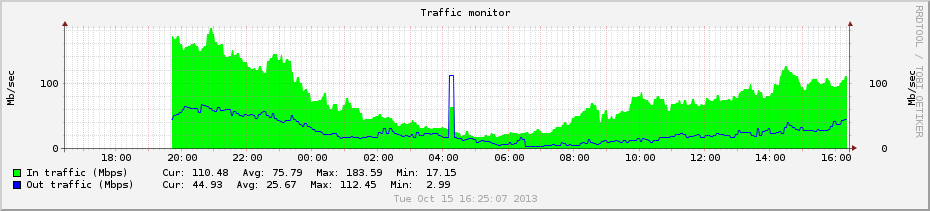
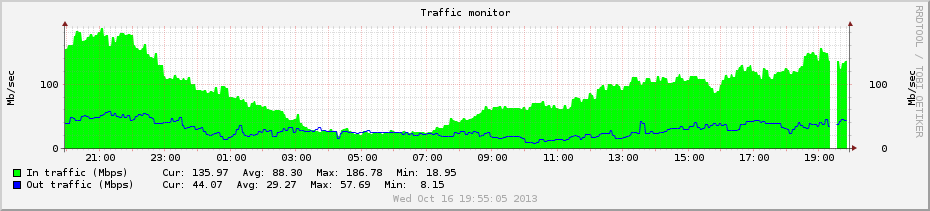
Changed x-grid on image

diff --git a/templates/mon/home.html b/templates/mon/home.html
@@ -19,5 +19,5 @@
 <img src="{{ STATIC_URL}}img/switches/rrd_ping.png" class="img-polaroid">
 <p></p>
 <p>{% trans "Общий трафик по всем интерфейсам:" %}</p>
-<img src="{{ STATIC_URL }}img/switches/rrd_traf.png" class="img-polaroid">
+<img src="{{ STATIC_URL }}img/switches/rrd_traf_daily.png" class="img-polaroid">
 {% endblock full_page_bottom %}

diff --git a/helper_progs/rrd_traffic.py b/helper_progs/rrd_traffic.py
@@ -70,7 +70,7 @@ def graph(period):
     settings = {'d': {'filename': secure.RRDTRAF_D_GRAPH_NAME,
                       'x-grid': 'MINUTE:10:HOUR:1:MINUTE:120:0:%R'},
                 'w': {'filename': secure.RRDTRAF_W_GRAPH_NAME,
-                      'x-grid': 'MINUTE:120:HOUR:6:MINUTE:1440:0:%R'},
+                      'x-grid': 'HOUR:2:DAY:1:DAY:1:86400:%A'},
                 'm': {'filename': secure.RRDTRAF_M_GRAPH_NAME,
                       'x-grid': ''},
                 'y': {'filename': secure.RRDTRAF_Y_GRAPH_NAME,
